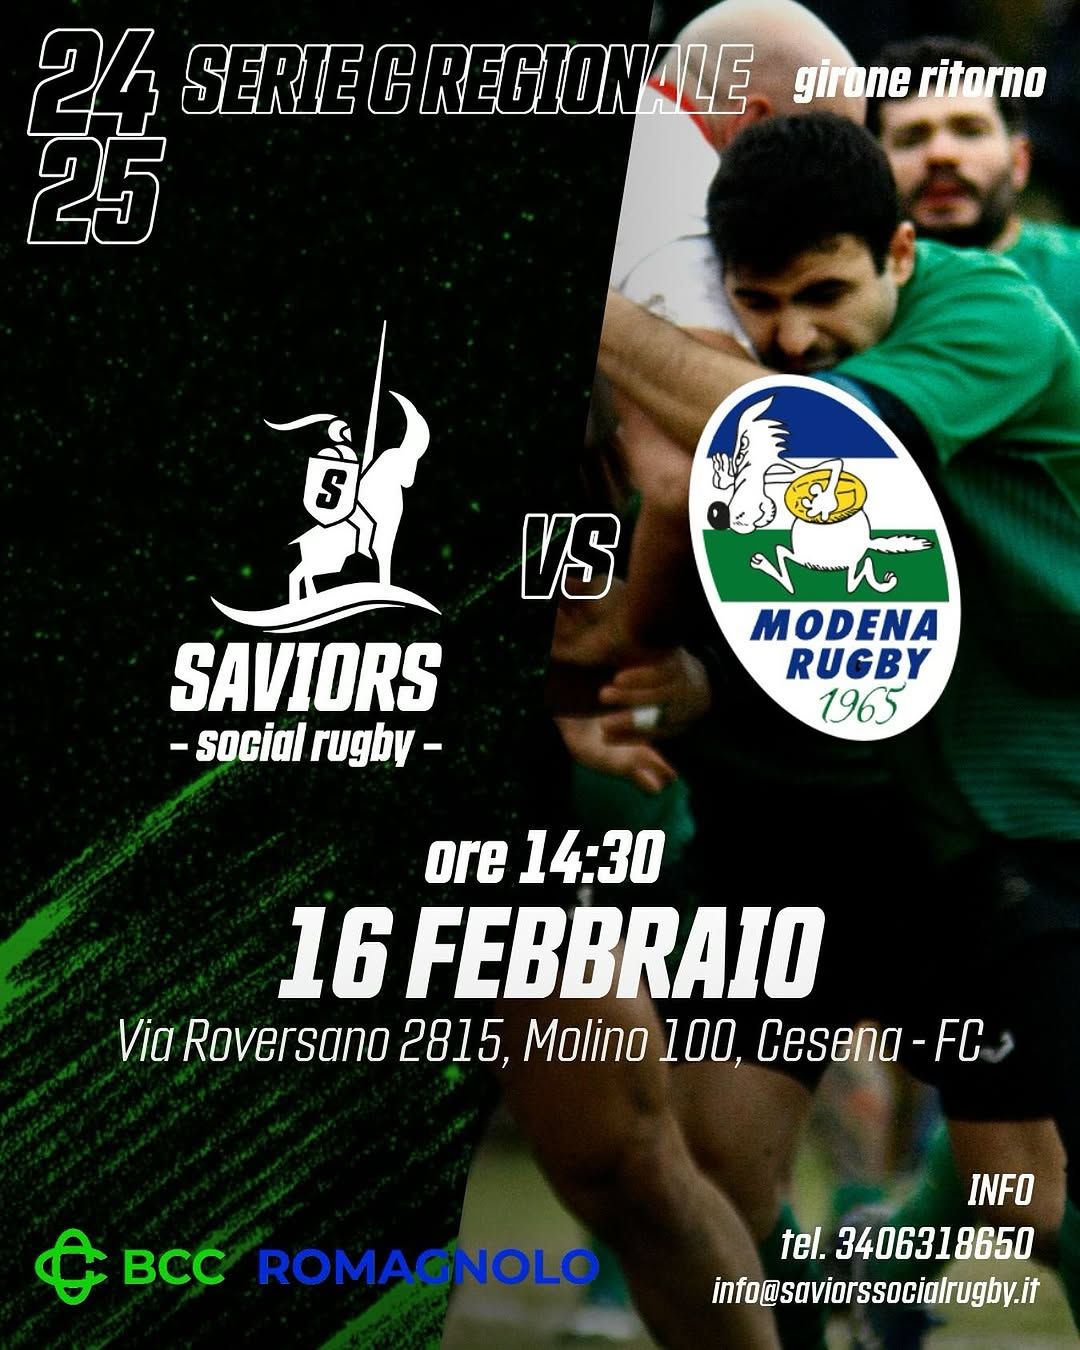
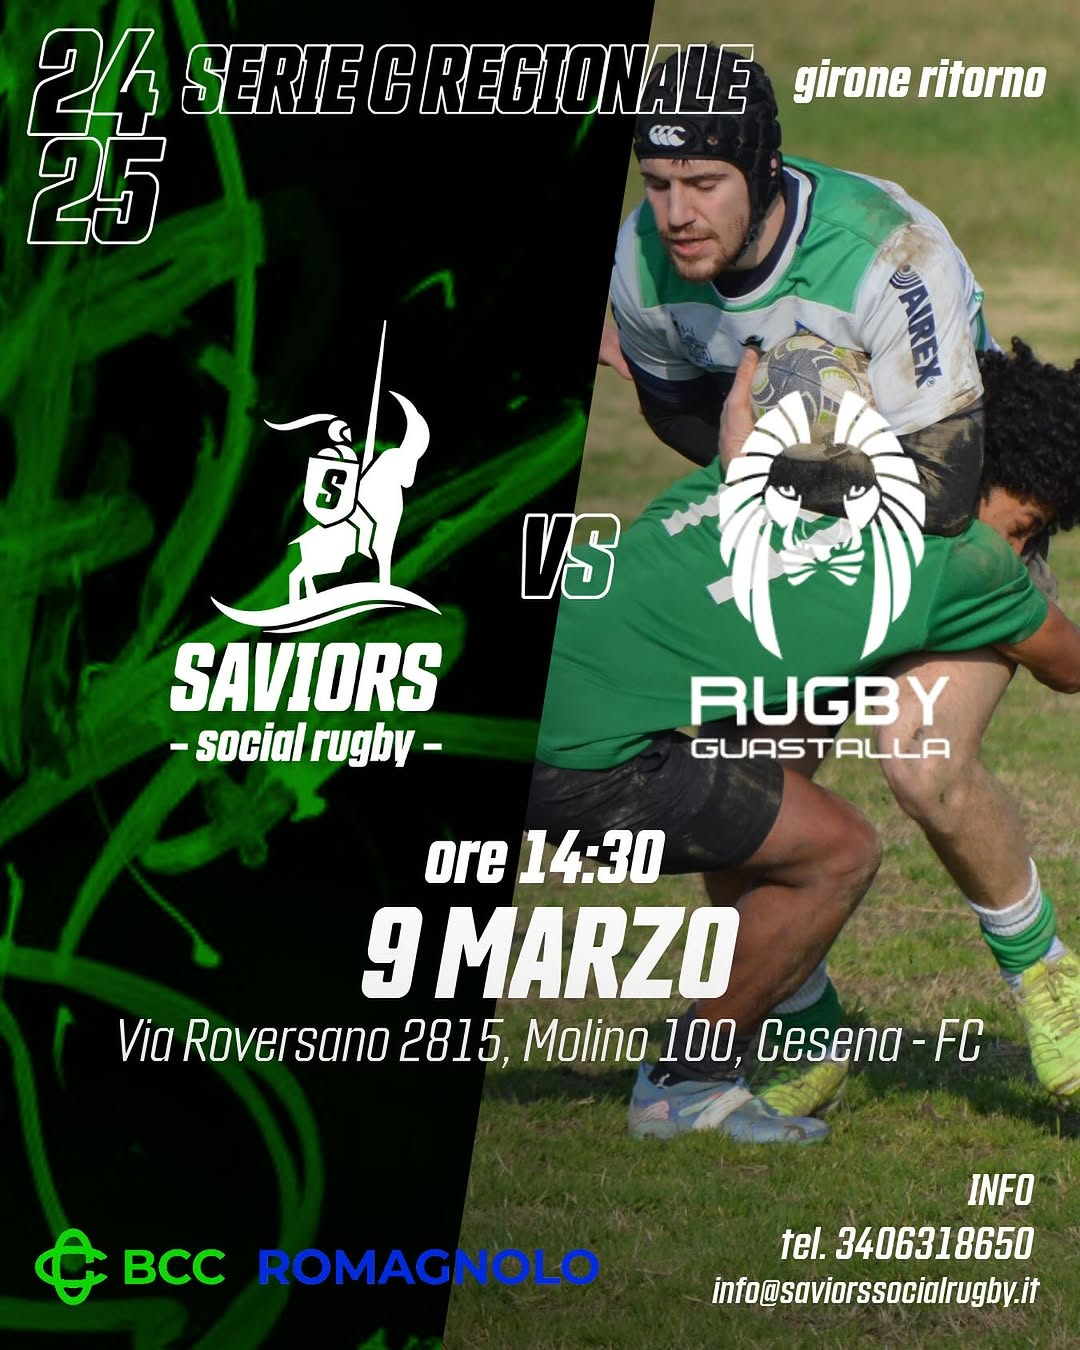
chore: update

diff --git a/content/posts/last-match/index.md b/content/posts/last-match/index.md
@@ -1,5 +1,5 @@
 ---
-title: "Ultimo Match:<br/>Saviors Social Rugby vs Modena Rugby (31 - 16)"
+title: "Ultimo Match:<br/>Saviors Social Rugby vs Guastalla 2008 (13 - 10)"
 date: "2024-12-08"
 sharingLinks:
   - facebook
@@ -7,7 +7,7 @@ sharingLinks:
   - telegram
 tags:
   - Saviors
-  - Modena
+  - Guastalla
 showDate: false
 showHeadingAnchors: false
 showHero: false
@@ -17,8 +17,8 @@ hide: true
 
 ![](./team.jpg)
 
-| Giornata   | Data       | Orario | Casa                         | Ospiti                  | Indirizzo                               |
-| ---------- | ---------- | ------ | ---------------------------- | ----------------------- | --------------------------------------- |
-| 1ᵃ Ritorno | 16/02/2025 | 14:30  | **Saviors Social Rugby ASD** | Modena Rugby 1965 nr. 2 | Via Roversano 2815, 47522 - Cesena (FC) |
+| Giornata   | Data       | Orario | Casa                         | Ospiti               | Indirizzo                               |
+| ---------- | ---------- | ------ | ---------------------------- | -------------------- | --------------------------------------- |
+| 3ᵃ Ritorno | 09/03/2025 | 14:30  | **Saviors Social Rugby ASD** | Rugby Guastalla 2008 | Via Roversano 2815, 47522 - Cesena (FC) |
 
 ![](./featured.jpg)

diff --git a/content/posts/next-match/index.md b/content/posts/next-match/index.md
@@ -1,5 +1,5 @@
 ---
-title: "Prossimo Match:<br/>Saviors Social Rugby vs Guastalla 2008"
+title: "Prossimo Match:<br/>Bologna Rugby Club vs Saviors Social Rugby"
 date: "2024-12-08"
 sharingLinks:
   - facebook
@@ -7,7 +7,7 @@ sharingLinks:
   - telegram
 tags:
   - Saviors
-  - Guastalla
+  - Bologna
 showDate: false
 showHeadingAnchors: false
 showHero: false
@@ -15,10 +15,10 @@ weight: 1
 hide: true
 ---
 
-![](./team.jpg)
+<!-- ![](./team.jpg) -->
 
-| Giornata   | Data       | Orario | Casa                         | Ospiti               | Indirizzo                               |
-| ---------- | ---------- | ------ | ---------------------------- | -------------------- | --------------------------------------- |
-| 3ᵃ Ritorno | 09/03/2025 | 14:30  | **Saviors Social Rugby ASD** | Rugby Guastalla 2008 | Via Roversano 2815, 47522 - Cesena (FC) |
+| Giornata   | Data       | Orario | Casa               | Ospiti                       | Indirizzo        |
+| ---------- | ---------- | ------ | ------------------ | ---------------------------- | ---------------- |
+| 5ᵃ Ritorno | 06/04/2025 | 15:30  | Bologna Rugby Club | **Saviors Social Rugby ASD** | Bonori - Bologna |
 
-![](./featured.jpg)
+<!-- ![](./featured.jpg) -->
